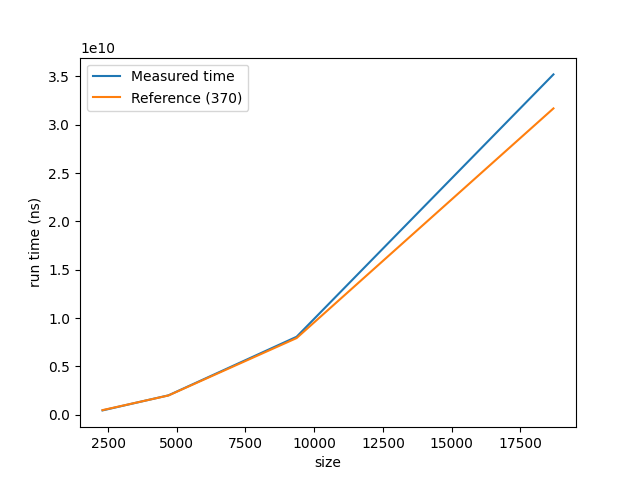
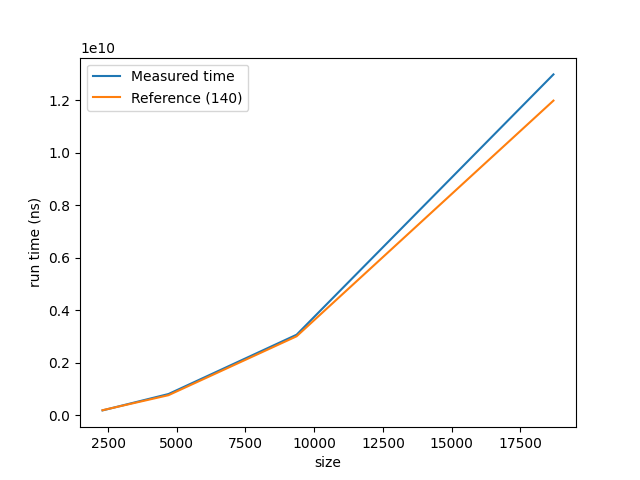
Fixed

diff --git a/kruskal_nm.py b/kruskal_nm.py
@@ -127,7 +127,7 @@ def measure_graphs_times(graphs, edges_map):
     for res in mst_results:
         print_mst_graphs_weight(res)
 
-    const_ref = 370
+    const_ref = 140
     reference = [const_ref * graphs[i]['edges'] * graphs[i]['nodes'] for i in range(len(graphs.keys()))]
     
     plt.plot(sizes, run_times)
